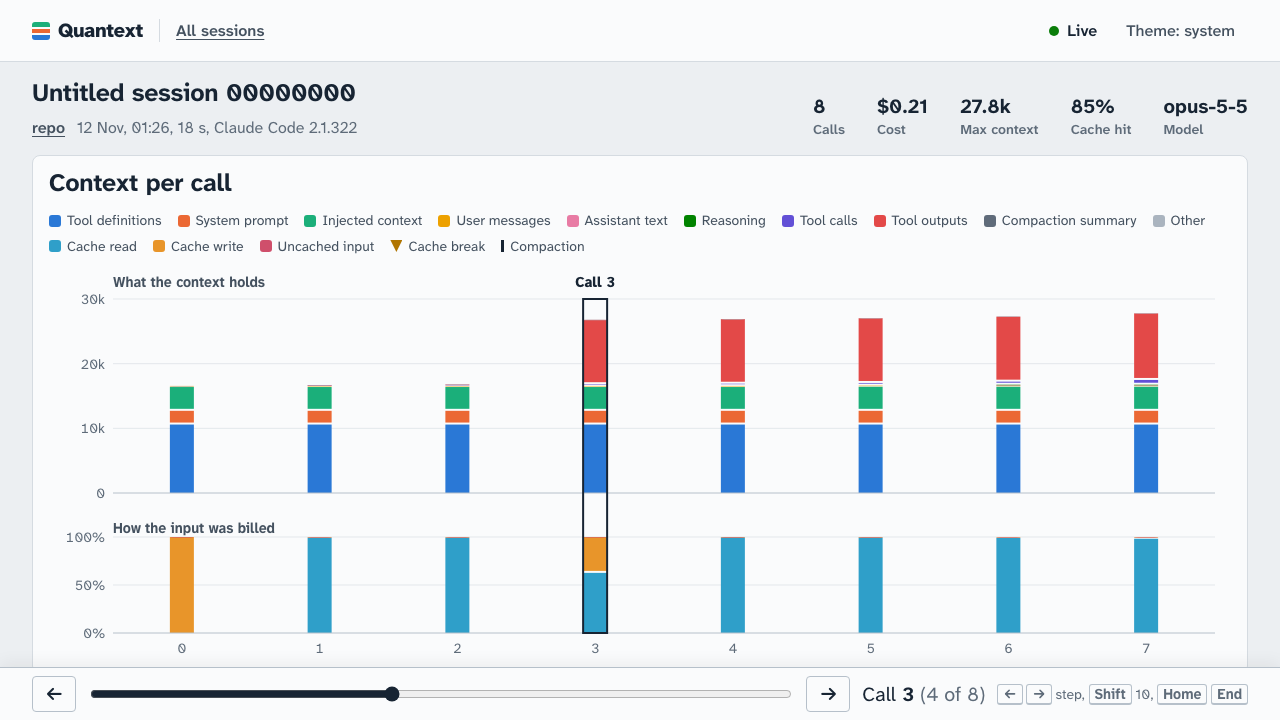
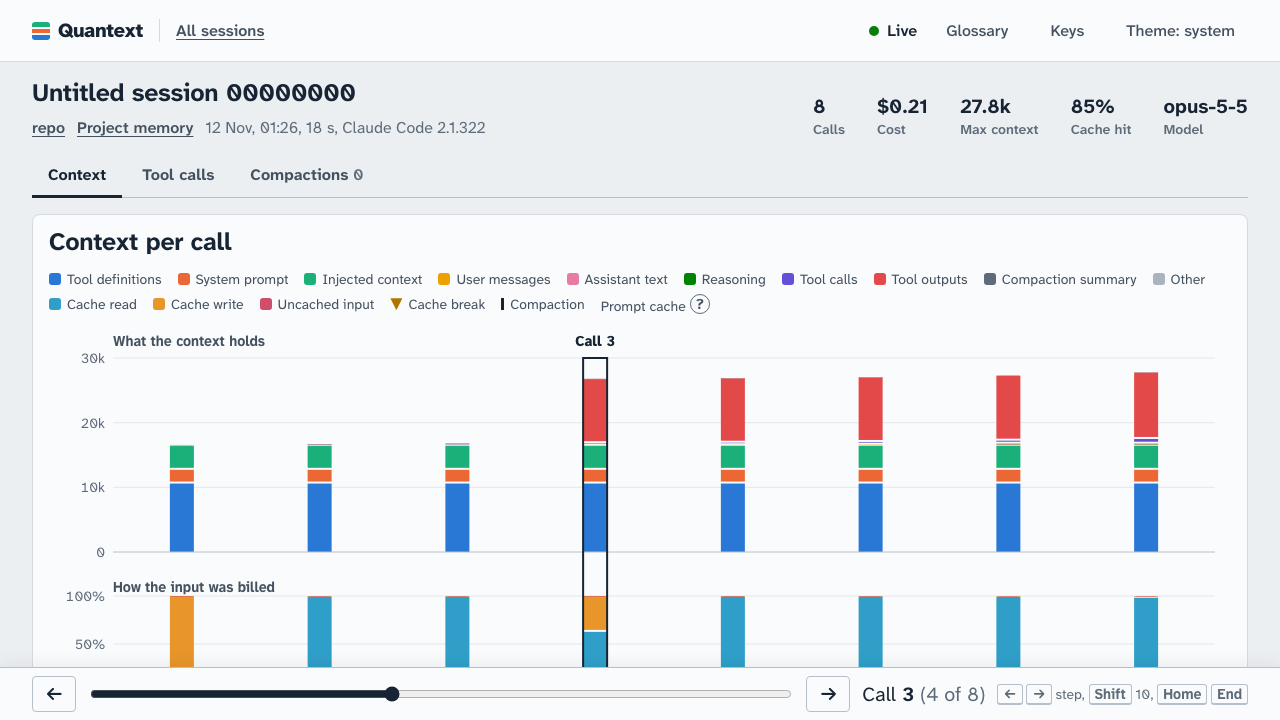
Retake the fixture screenshots and add the new views, from a script
The screenshots were taken by hand in part 1. e2e/screens.e2e.ts takes
them all against a fixture engine in the light theme when QX_SCREENS=1
(skipped otherwise): the list, session, context and block panel as
before, and now what changed, tool calls, an Edit diff, compaction,
memory and the glossary, at 1440x900 and the main ones at 1280x720.
The prompt cache explainer moves to the end of the billing legend.

diff --git a/e2e/screens.e2e.ts b/e2e/screens.e2e.ts
@@ -1,0 +1,127 @@
+/**
+ * The fixture screenshots in docs/screens: `QX_SCREENS=1 pnpm exec playwright test e2e/screens.e2e.ts` (after
+ * `pnpm build`). Skipped otherwise. Fixtures only, light theme (the projector theme).
+ */
+import { join } from "node:path";
+import type { Page } from "@playwright/test";
+import type { Engine } from "./engine.ts";
+import { expect, test } from "./engine.ts";
+
+const OUT = join(import.meta.dirname, "..", "docs", "screens");
+const SIZES = [
+  { width: 1440, height: 900 },
+  { width: 1280, height: 720 },
+] as const;
+
+test.skip(!process.env.QX_SCREENS, "set QX_SCREENS=1 to take the screenshots");
+
+type Shot = { name: string; both: boolean; go: (page: Page, engine: Engine) => Promise<void> };
+
+const SHOTS: Shot[] = [
+  {
+    name: "sessions",
+    both: true,
+    go: async (page, engine) => {
+      await page.goto(engine.url);
+      await expect(page.getByTestId("session-row").first()).toBeVisible();
+    },
+  },
+  {
+    name: "session",
+    both: true,
+    go: async (page, engine) => {
+      await page.goto(`${await engine.sessionUrl("basic-tools")}?call=3`);
+      await expect(page.getByTestId("timeline")).toBeVisible();
+    },
+  },
+  {
+    name: "context",
+    both: true,
+    go: async (page, engine) => {
+      await page.goto(`${await engine.sessionUrl("basic-tools")}?call=2`);
+      await page.getByTestId("context").scrollIntoViewIfNeeded();
+      await page.evaluate(`document.getElementById("context-title")?.scrollIntoView({ block: "start" })`);
+    },
+  },
+  {
+    name: "block-panel",
+    both: false,
+    go: async (page, engine) => {
+      await page.goto(`${await engine.sessionUrl("basic-tools")}?call=2`);
+      await page.getByTestId("block-row").first().getByRole("button").first().click();
+      await expect(page.getByTestId("block-text")).toBeVisible();
+    },
+  },
+  {
+    name: "diff",
+    both: true,
+    go: async (page, engine) => {
+      await page.goto(`${await engine.sessionUrl("compaction")}?call=4`);
+      await expect(page.getByTestId("break-note")).toBeVisible();
+      await page.evaluate(`document.getElementById("what-changed")?.scrollIntoView({ block: "start" })`);
+    },
+  },
+  {
+    name: "tools",
+    both: true,
+    go: async (page, engine) => {
+      await page.goto(`${await engine.sessionUrl("basic-tools")}/tools`);
+      await expect(page.getByTestId("tool-row").first()).toBeVisible();
+    },
+  },
+  {
+    name: "tool-edit",
+    both: false,
+    go: async (page, engine) => {
+      await page.goto(`${await engine.sessionUrl("basic-tools")}/tools`);
+      await page.getByRole("button", { name: /Open the tool call: Edit/ }).click();
+      await expect(page.getByTestId("edit-diff")).toBeVisible();
+    },
+  },
+  {
+    name: "compaction",
+    both: true,
+    go: async (page, engine) => {
+      await page.goto(`${await engine.sessionUrl("compaction")}/compactions`);
+      await expect(page.getByTestId("compaction")).toBeVisible();
+    },
+  },
+  {
+    name: "memory",
+    both: false,
+    go: async (page, engine) => {
+      engine.writeMemory(
+        "basic-tools",
+        "MEMORY.md",
+        "- [Style](style.md) — how we write\n- [Tests](tests.md) — run them first\n",
+      );
+      engine.writeMemory("basic-tools", "style.md", "---\nname: style\n---\nShort sentences. One idea each.\n");
+      engine.writeMemory("basic-tools", "tests.md", "---\nname: tests\n---\nRun the unit tests before a commit.\n");
+      await page.goto(await engine.sessionUrl("basic-tools"));
+      await page.getByRole("link", { name: "Project memory" }).click();
+      await expect(page.getByTestId("memory-file")).toHaveCount(3);
+    },
+  },
+  {
+    name: "glossary",
+    both: false,
+    go: async (page, engine) => {
+      await page.goto(`${await engine.sessionUrl("basic-tools")}?call=3`);
+      await page.getByRole("button", { name: "What is prompt cache?" }).click();
+      await expect(page.getByTestId("glossary")).toBeVisible();
+    },
+  },
+];
+
+for (const shot of SHOTS) {
+  for (const size of shot.both ? SIZES : SIZES.slice(0, 1)) {
+    test(`screenshot ${shot.name} at ${size.width}x${size.height}`, async ({ page, engine }) => {
+      await page.emulateMedia({ colorScheme: "light", reducedMotion: "reduce" });
+      await page.setViewportSize(size);
+      await shot.go(page, engine);
+      await page.mouse.move(0, 0);
+      await page.waitForTimeout(300);
+      await page.screenshot({ path: join(OUT, `${shot.name}-${size.width}x${size.height}.png`) });
+    });
+  }
+}

diff --git a/packages/web/src/pages/SessionPage.tsx b/packages/web/src/pages/SessionPage.tsx
@@ -336,9 +336,6 @@ function BillingLegend({ noUsage }: { noUsage: boolean }) {
         </button>
       </li>
       <li>
-        <Term id="prompt-cache">Prompt cache</Term>
-      </li>
-      <li>
         <button
           type="button"
           className="tip-anchor legend-item"
@@ -360,6 +357,9 @@ function BillingLegend({ noUsage }: { noUsage: boolean }) {
           </button>
         </li>
       )}
+      <li>
+        <Term id="prompt-cache">Prompt cache</Term>
+      </li>
     </ul>
   );
 }
